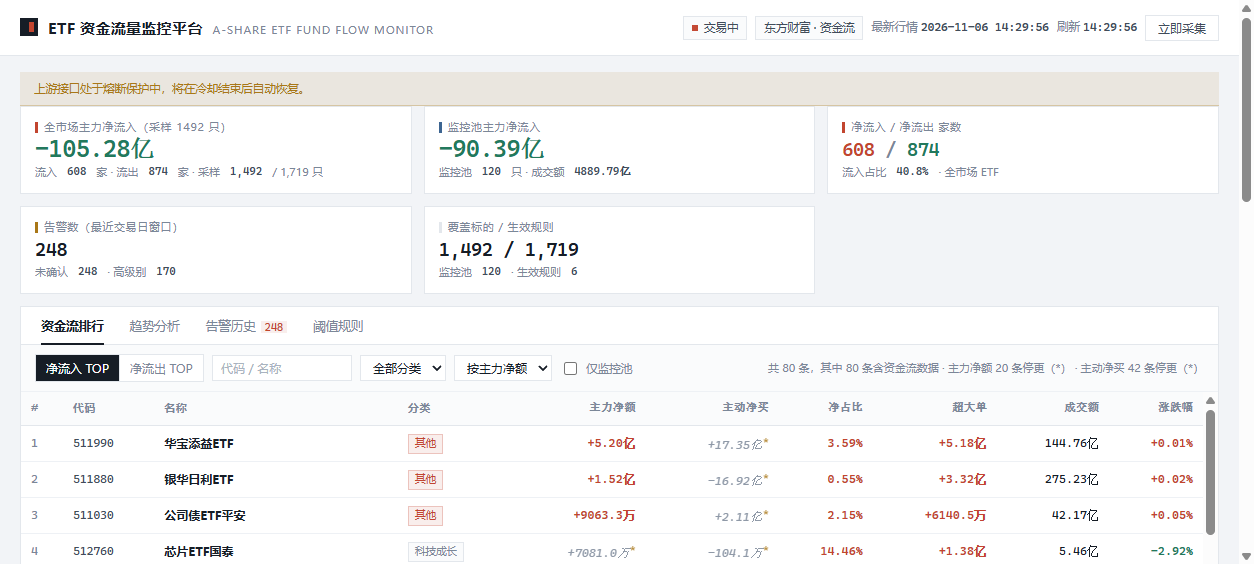
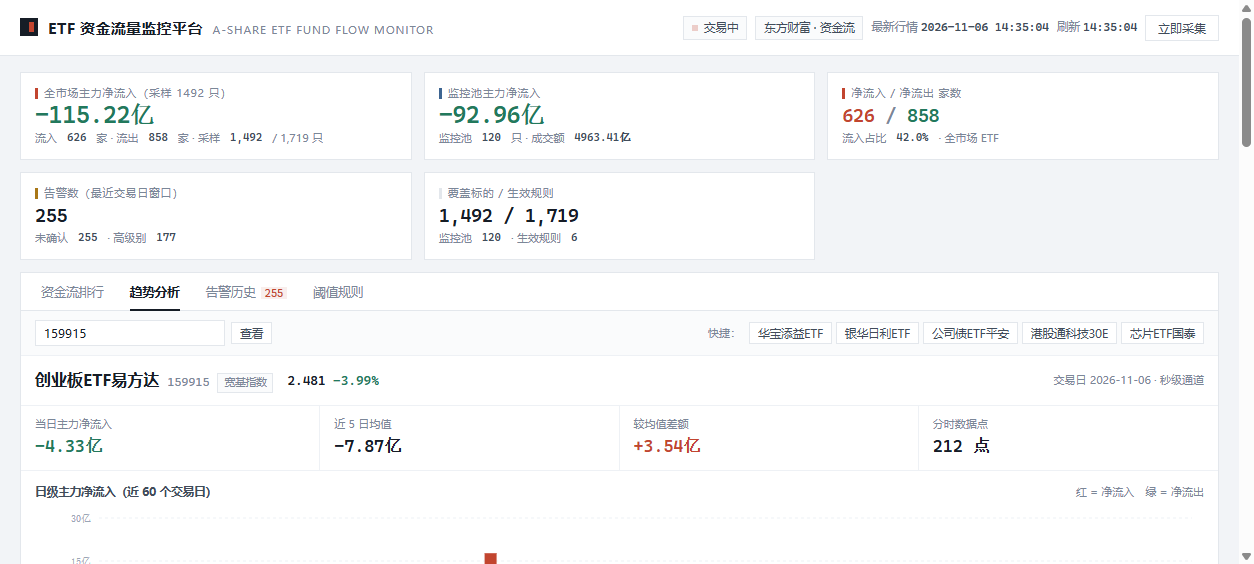
fix(ui): 打开详情页就拉一次最新分时，不再等 SSE tick
原来只在本地无数据时才请求，盘中有数据但已滞后几分钟的情形会一直显示旧值。
服务端有 60 秒节流，前端可以直接请求。

diff --git a/web/js/views/trend.js b/web/js/views/trend.js
@@ -355,8 +355,11 @@ export function createTrendView({ toast }) {
     fastData = fastFor === currentCode ? fastData : null;
     if (detail.fast?.inPool) void loadFast(currentCode);
 
-    // 首屏用本地缓存渲染；本地没有该交易日的分时，再按需向上游拉取一次
-    if (!intraday?.available && currentCode) void loadIntraday(currentCode, null);
+    // 首屏先用本地缓存渲染，避免白屏；然后按需向上游要一次最新的。
+    // 不能只判 `!available`：盘中标的分时早就有数据（available=true），
+    // 但可能停在几分钟前，用户点开看到的仍是旧值 —— 这正是「表不更新」的由来。
+    // 服务端有 60 秒节流兜底，这里直接请求不会打爆上游。
+    if (currentCode && (!intraday?.available || !intraday?.isClosed)) void loadIntraday(currentCode, null);
   }
 
   async function loadIntraday(code, date) {
